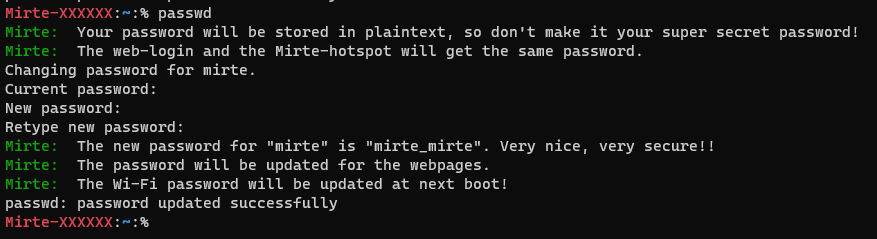
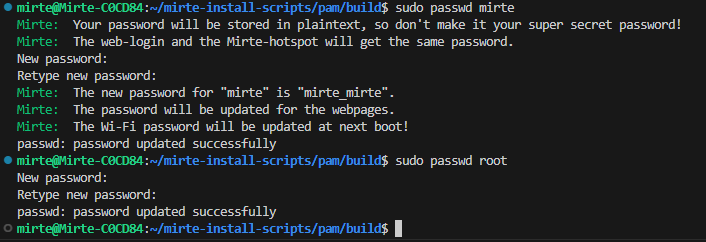
Pam module dont show when not mirte user

Changed region(s): [[0.0, 0.0, 1.0, 0.9958]]

diff --git a/pam/storepassword.c b/pam/storepassword.c
@@ -12,6 +12,11 @@ PAM_EXTERN int pam_sm_chauthtok(pam_handle_t *pamh, int flags, int argc,
   char *user;
   int r = pam_get_item(pamh, PAM_AUTHTOK, (const void **)&pwd);
   pam_get_item(pamh, PAM_USER, (const void **)&user);
+  // Don't show anything when it is not the mirte user
+  if (strcmp(user, mirte_username) != 0)
+  {
+    return PAM_SUCCESS;
+  }
   printf(GRN
          "Mirte:\t" RESET "The new password for \"%s\" is \"%s\".\n" GRN
          "Mirte:\t" RESET "The password will be updated for the webpages.\n" GRN
@@ -23,11 +28,6 @@ PAM_EXTERN int pam_sm_chauthtok(pam_handle_t *pamh, int flags, int argc,
 
 void savePassword(char *username, char *passwd)
 {
-  if (strcmp(username, mirte_username) != 0)
-  {
-    printf(GRN "Mirte:\t" RESET "Not Mirte user, so not changing the wifi password.\n");
-    return;
-  }
   if (!checkDirectory())
   {
     printf(GRN "Mirte:\t" RESET "Mirte home directory does not exist, not storing "

diff --git a/pam/warn.c b/pam/warn.c
@@ -8,8 +8,17 @@
    /etc/pam.d/passwd to let it run before the passwd system.
 */
 PAM_EXTERN int pam_sm_chauthtok(pam_handle_t *pamh, int flags, int argc,
-                                const char **argv) {
-  if (flags == PAM_PRELIM_CHECK) {
+                                const char **argv)
+{
+  if (flags == PAM_PRELIM_CHECK)
+  {
+    char *user;
+    pam_get_item(pamh, PAM_USER, (const void **)&user);
+    // Don't show anything when it is not the mirte user
+    if (strcmp(user, mirte_username) != 0)
+    {
+      return PAM_SUCCESS;
+    }
     printf(GRN
            "Mirte:\t" RESET "Your password will be stored in plaintext, so "
            "don't make it your super secret password!\n" GRN "Mirte:\t" RESET

diff --git a/pam/readme.md b/pam/readme.md
@@ -1,12 +1,10 @@
 # password module
 
-This system will show some info to the user when changing passwords and stores the new password in `/home/mirte/.wifi_pwd`. The warnings are hooked in to `passwd` by using pam modules.
+This system will show some info to the user when changing passwords and stores the new password in `/home/mirte/.wifi_pwd`. The warnings are hooked in to `passwd` by using pam modules. It will only print and store when the mirte user password is changed, not when changing the root password.
 
 Output:
 
 ![passwd with mirte pam](image.png)
-
-
 
 # Build
 Building PAM modules requires `libpam0g-dev`:
@@ -24,17 +22,25 @@ make
 make install # requires sudo privileges
 ```
 
-This will build the Mirte pam modules(warning and storepassword), install them to `/lib/security/limbirte_pam_xxx.so` and add the required lines to `/etc/pam.d/passwd`.
+This will build the Mirte pam modules(warning and storepassword), installs them to `/lib/security/limbirte_pam_xxx.so` and add the required lines to `/etc/pam.d/passwd` and `/etc/pam.d/common-password`.
 
-# passwd
+### passwd:
 The resulting `/etc/pam.d/passwd` should look like:
 ```
 #
 # The PAM configuration file for the Shadow `passwd' service
 #
+
 password required /lib/security/libmirte_pam_warn.so
 @include common-password
+```
+
+### common-password:
+The resulting `/etc/pam.d/common-password` should look like:
+
+```
+...
 password required /lib/security/libmirte_pam_storepassword.so
 ```
 
-The `warn` module is started before the actual passwd system, so the output will be before the passwd output. The storepassword is after it to catch the plaintext password.
+The `warn` module is started before the actual passwd system, so the output will be before the passwd output. The storepassword is at the end to catch the plaintext password.
